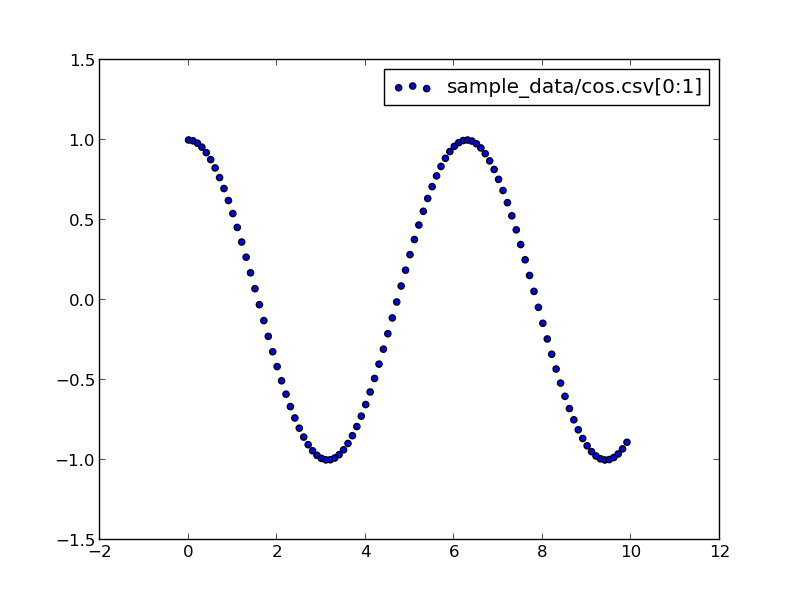
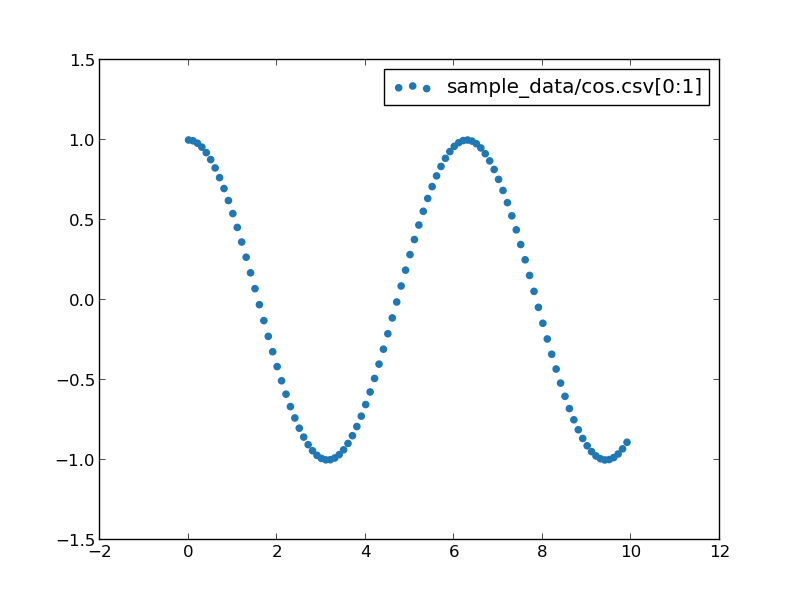
Support alpha parameter

diff --git a/docs/04_scatter.md b/docs/04_scatter.md
@@ -8,3 +8,11 @@ pltcli --type scatter sample_data/cos.csv
 ```
 
 ![--type scatter sample_data/cos.csv](images/04_scatter_image_00.png)
+
+You can use `--alpha` to specify transparency.
+
+```
+pltcli --type scatter sample_data/cos.csv sample_data/sin.csv --alpha 0.5
+```
+
+![--type scatter sample_data/cos.csv sample_data/sin.csv --alpha 0.5](images/04_scatter_image_01.png)

diff --git a/input_docs/04_scatter.md b/input_docs/04_scatter.md
@@ -10,3 +10,13 @@ pltcli --type scatter sample_data/cos.csv
 ```inline-pltcli
 --type scatter sample_data/cos.csv
 ```
+
+You can use `--alpha` to specify transparency.
+
+```
+pltcli --type scatter sample_data/cos.csv sample_data/sin.csv --alpha 0.5
+```
+
+```inline-pltcli
+--type scatter sample_data/cos.csv sample_data/sin.csv --alpha 0.5
+```
